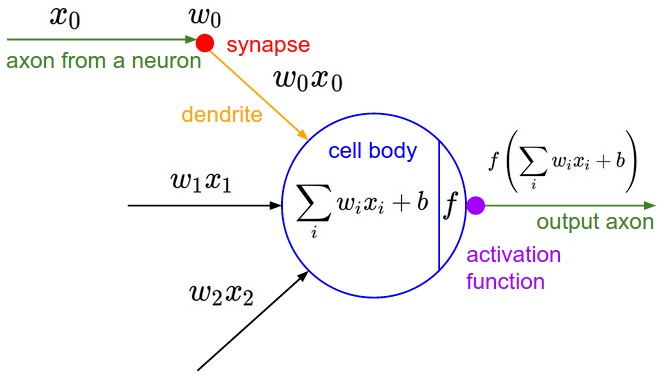
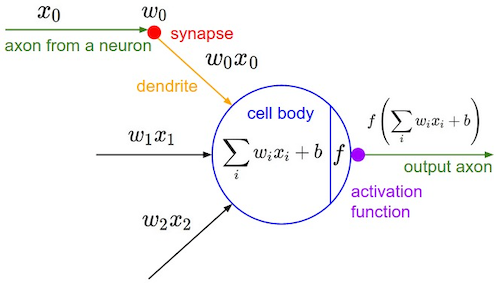
집필용 내부 검토 주석 일괄 제거, ch01 그림 1건 교체
- 원문 대조 과정에서 남겨둔 <!-- 원문 불일치 확인 필요 ... --> 주석을 전 장에서
  제거했다 (11개 파일, 16건). HTML 주석이라 교재 화면에는 보이지 않았지만
  GitHub 에서 md 원본을 여는 학생에게는 그대로 노출되던 집필 메모다.
- <!-- 슬라이드 N --> 마커 293개는 그대로 보존했다.
- ch01/images/s016_02.png 교체

Claude-Session: https://claude.ai/code/session_01NBVYSwV8LhFVXyMW9GHenr

diff --git a/ch07_설명가능성/7.1_기여도분석.md b/ch07_설명가능성/7.1_기여도분석.md
@@ -567,8 +567,6 @@ sg_default = smoothgrad(model, x_sample, sigma=0.2, T=50, seed=SEED)
 
 **분산 변화 비교.** $\sigma \in \{0, 0.05, 0.1, 0.2, 0.3\}$ 으로 노이즈 크기를 바꾸어 Attribution이 어떻게 달라지는지 본다. $\sigma = 0$ 인 경우가 곧 Vanilla Gradient다.
 
-<!-- 원문 불일치 확인 필요: 원문 슬라이드 462 는 σ ∈ {0, 0.05, 0.1, 0.2, 0.3} · T ∈ {1, 5, 10, 30, 100} 으로 적었으나, 노트북 코드와 슬라이드 그림은 σ=0.5 · T=300 까지 포함한다 -->
-
 ```python
 sigmas = [0.0, 0.05, 0.1, 0.2, 0.3, 0.5]
 sg_by_sigma = {s: smoothgrad(model, x_sample, sigma=s, T=100, seed=SEED) for s in sigmas}
@@ -796,7 +794,6 @@ pt_imp = np.abs(pt_shap_arr).mean(axis=0)
 
 > **핵심 메시지**
 > Attribution 도구는 데이터 자체가 아니라 **모델의 학습 결과**를 설명하는 도구다. 도구들 사이의 차이는 충실도, 즉 완전성 공리를 만족하는지 여부에서 온다.
-
 
 > **정리 — Part B**
 > **Integrated Gradients(IG)** 는 경로 적분으로 Vanilla Gradient의 포화 문제를 해결하고, 완전성과 구현 불변성 두 공리를 동시에 만족한다. baseline 선택과 평균화가 IG 결과의 안정성을 크게 좌우하므로 다중 baseline 평균이 표준이다.
@@ -1048,8 +1045,6 @@ Spurious 의존이 실제 모델 배포에서 발견된 대표 사례가 세 건
 **IG로 영역별 기여도 산출.** 픽셀별로 Attribution을 계산한 뒤, 영역별 IG 합을 전체 IG 합으로 나눈 비율을 확인한다.
 
 ![중앙(진짜) 영역과 배경(가짜) 영역의 IG 비율 — 가짜 영역 비율 0.981, 진짜 영역 비율 0.019로 탐지 워크플로우 4단계의 임계 0.3을 크게 초과한다](images/s483_03.png)
-
-<!-- 원문 불일치 확인 필요: 노트북 출력 화면(s484_03)에는 임계 0.3 옆에 'Adebayo' 라는 표기가 찍혀 있으나, 원문 슬라이드 481 은 이 임계를 탐지 워크플로우 4단계의 기준으로만 제시하고 누구에게도 귀속시키지 않는다. Adebayo 2018 은 saliency map 의 sanity check 논문이다 -->
 
 **픽셀별 IG 히트맵.** 시각화해 보면 모델이 이미지의 모든 곳을 보고 있음이 드러난다.
 

diff --git a/ch07_설명가능성/7.2_Attention.md b/ch07_설명가능성/7.2_Attention.md
@@ -282,7 +282,6 @@ $$q_i \cdot k_j = \sum_{m=1}^{d_k} q_{i,m}\, k_{j,m} = \left\| q_i \right\| \lef
 ### 표준 형태의 기호 정리
 
 $$\mathrm{Attention}(Q, K, V) = \mathrm{softmax}\!\left(\frac{QK^\top}{\sqrt{d_k}}\right) V, \qquad Q \in \mathbb{R}^{N \times d_k},\; K \in \mathbb{R}^{N \times d_k},\; V \in \mathbb{R}^{N \times d_v}$$
-<!-- 원문 불일치 확인 필요: 원문은 V 도 $d_k$ 로 표기했으나, 같은 슬라이드가 $d_k$ 를 Key 의 차원으로만 정의하므로 $d_v$ 로 적었다 -->
 <!-- 원문 표기 혼용: 요소 개수를 슬라이드 510 은 $n$, 512·513 은 $N$ 으로 썼다. 절 전체를 $N$ 으로 통일했다 -->
 
 여기서 $N$ 은 요소의 개수다. 각 항의 의미는 다음과 같다.
@@ -398,7 +397,7 @@ Self-Attention의 대가는 계산량이다. 시퀀스 길이 $N$ 에 대해 시
 
 **첫째, sparse attention 계열.** Longformer, BigBird, LongNet이 여기에 속한다. 출발점은 "모든 쌍을 다 볼 필요는 없다"는 가정이다. 참조 길이를 줄여 계산량을 낮춘다. 아래 네 그림은 전체 쌍을 다 보는 full attention 대신 어떤 패턴만 남길 수 있는지를 보여 준다. 대각선 주변만 보는 슬라이딩 윈도, 소수의 위치를 모두와 연결하는 전역 패턴, 무작위로 고른 쌍만 보는 패턴, 그리고 이들을 겹쳐 만든 결합 패턴이 있다.
 
-![대각선 주변만 참조하는 슬라이딩 윈도 형태의 sparse attention 패턴](images/s512_02.png) 
+![대각선 주변만 참조하는 슬라이딩 윈도 형태의 sparse attention 패턴](images/s512_02.png)
 ![특정 위치를 모든 요소와 연결하는 전역(global) sparse attention 패턴](images/s512_03.png)
 ![무작위로 선택된 쌍만 참조하는 random sparse attention 패턴](images/s512_04.png)
 ![슬라이딩 윈도, 전역, 무작위 패턴을 겹쳐 구성한 결합형 sparse attention 패턴](images/s512_05.png)

diff --git a/ch03_표현공간/3.2_분포표현과VAE.md b/ch03_표현공간/3.2_분포표현과VAE.md
@@ -285,8 +285,6 @@ VAE의 손실함수로 들어가기 전에 확률론 용어 몇 개를 정리해
 
 먼저 **가능도 기여도**다. 데이터 $x_i$ 하나가 어떤 분포에 대해 갖는 기여도는, 연속확률밀도함수(PDF)에서는 그 데이터 위치에서 곡선까지 세운 점선의 **높이**이고, 이산 확률질량함수(PMF)라면 그 값의 **확률**이다.
 
-<!-- 원문 수식 확인 필요: 원문의 "P(x_i,θ)=x_i P(θ)" 는 OMML 변환 과정에서 깨진 것으로 보인다. 의미는 "데이터 x_i 가 모수 θ의 분포에서 갖는 밀도값 p(x_i | θ)" 이다. -->
-
 **가능도(likelihood)** 는 $\mathcal{L}(\cdot)$ 또는 $L(\cdot)$ 로 표기하며, 다음과 같이 정의한다.
 
 $$\mathcal{L}(\theta \mid x) = P(x \mid \theta) = \prod_{k=1}^{n} P(x_k \mid \theta)$$
@@ -473,8 +471,6 @@ $$\mathcal{N}(\mu, \sigma) = \frac{1}{\sqrt{2\pi\sigma^2}}\, e^{-\frac{(x-\mu)^2
 $$D_{KL}(p \,\|\, q) = -\int p(x)\log q(x)\, dx + \int p(x)\log p(x)\, dx$$
 
 $$= \frac{1}{2}\log\!\left(2\pi\sigma_2^2\right) + \frac{\sigma_1^2 + (\mu_1 - \mu_2)^2}{2\sigma_2^2} - \frac{1}{2}\left(1 + \log 2\pi\sigma_1^2\right)$$
-
-<!-- 원문 수식 확인 필요: 원문 중간 전개는 "(σ_1^2 + μ_1 − μ_2)^2 / σ_2^2" 로 되어 있으나, 마지막 줄의 결과와 정합하도록 "σ_1^2 + (μ_1 − μ_2)^2" 를 2σ_2^2 로 나눈 형태로 정정하여 옮겼다. -->
 
 $$= \log\!\left(\frac{\sigma_2}{\sigma_1}\right) + \frac{\sigma_1^2 + (\mu_1 - \mu_2)^2}{2\sigma_2^2} - \frac{1}{2}$$
 

diff --git a/ch02_관측공간/2.1_관측공간의한계.md b/ch02_관측공간/2.1_관측공간의한계.md
@@ -175,8 +175,6 @@ $$d_{\min}(d)\approx d_{\max}(d)\approx \mathbb{E}[\text{dist}], \qquad \frac{d_
 
 정규분포에서 sampling한 `dimensions=[2, 10, 50, 100, 500]` 각 1000개의 벡터에서 거리의 평균, 표준편차, 변동계수(CV: Coefficient of Variation)를 확인한다.
 
-<!-- 원문 불일치 확인 필요: 슬라이드는 "정규분포에서 sampling"이라 적었으나, 같은 슬라이드의 이론 전개는 Unif([0,1]^d) 를 쓰고 노트북 코드도 np.random.rand(균일분포)를 쓴다 -->
-
 모든 점 쌍의 유클리드 거리를 구한 뒤 그 평균·표준편차·변동계수를 차원별로 비교한다.
 
 ```python
@@ -393,8 +391,6 @@ $$L_{recon} = \frac{1}{N}\sum_i \lVert x_i - D(E(x_i))\rVert^{2}$$
 - Decoder: 잠재공간 → 관측공간, $\hat{x} = D(z;\varphi)$
 
 재구성 오차가 작다는 것은 압축된 표현이 데이터의 본질적 구조를 잘 포착했음을 의미한다. 하지만 **재구성이 완벽하다고 해서 좋은 표현을 학습했다고 보장할 수는 없다**(→ 심화 과제 2-2).
-
-<!-- 원문 불일치 확인 필요: 슬라이드 50 은 이 지점을 "(심화과제4)"로 가리키지만, 내용이 대응하는 것은 심화 과제 2-2(Latent Space·재구성 오차)다. 2-4 는 Mutual Information 과제로 무관하다 -->
 
 **어떤 정보가 중요한가?**
 

diff --git a/ch07_설명가능성/7.3_Parameter분석.md b/ch07_설명가능성/7.3_Parameter분석.md
@@ -57,11 +57,9 @@ Weight에서 관찰되는 **Low-Rank(저계수) 패턴**은 이 질문에 대한
 
 - **Effective Rank** : 모델이 실제로 사용한 차원 수를 확인한다. 데이터 내재 차원의 흔적이다.
 - **Dead Neuron** : 모델이 버린 용량을 확인한다.
-- **Activation entropy** : 표현의 집중(특화-낮은H)/분산(다양성-높은H)을 확인한다. 
+- **Activation entropy** : 표현의 집중(특화-낮은H)/분산(다양성-높은H)을 확인한다.
 
 - **Lottery Ticket** : 핵심 연결이 어디인지를 확인한다.
-
-<!-- 원문 불일치 확인 필요: 원문의 네 도구 목록에서 "Activation entropy :" 항목만 콜론 뒤가 비어 있어 무엇을 확인하는 도구인지 적혀 있지 않다. 여기서는 정의가 나오는 위치만 가리켰다. -->
 
 ---
 

diff --git a/ch01_DL기반데이터분석소개/1.2_딥러닝개요.md b/ch01_DL기반데이터분석소개/1.2_딥러닝개요.md
@@ -168,8 +168,6 @@ $$\mathbf{Estimation} = [\,3\;\;-1\;\;2\;\;10\,] \;\;(\text{logits})$$
 
 $$\longrightarrow \frac{[\,e^{3}\;\; e^{-1}\;\; e^{2}\;\; e^{10}\,]}{e^{3}+e^{-1}+e^{2}+e^{10}} = [\,0.009\;\;0.0001\;\;0.0009\;\;0.99\,] \quad (\text{예측한 확률 분포})$$
 
-<!-- 원문 불일치 확인 필요: 슬라이드의 결과값 [0.009 0.0001 0.0009 0.99] 는 합이 1이지만 좌변의 지수 계산값과 어긋난다. 실제로 계산하면 약 [0.0009 0.00002 0.0003 0.9989] 이다. 원문 표기를 그대로 두었다. -->
-
 **Cross Entropy**
 
 두 확률 분포 $p$ 와 $q$ 가 있을 때 둘을 식별하는 데 필요한 비트 수(정보이론)이며, 두 확률변수의 **유사도를 측정하는 함수**로 사용할 수 있다.

diff --git a/ch02_관측공간/2.3_선형투영의실패.md b/ch02_관측공간/2.3_선형투영의실패.md
@@ -220,7 +220,6 @@ Manifold의 구조에 기반해 거리를 계산하므로 **Swiss Roll을 가장
 
 - 저차원에서 가중치를 보존한다: $A = W_1 B + W_2 C + W_3 D$ 형태로 각 점을 이웃 $k$ 개(parameter)의 선형 결합으로 표현한다.
 
-  <!-- 원문 불일치 확인 필요: 슬라이드 74 는 $A=W_1B+W_2C+W_3C$ 로 마지막 항의 기호를 C 로 중복해 적었다. 이웃이 셋이므로 D 로 바로잡았다 -->
 - 국소적 특징을 세밀하게 사용하며, 복잡한 구조의 manifold를 펼칠 때 강력하다.
 
 ---

diff --git a/ch02_관측공간/2.2_관측통계의제약.md b/ch02_관측공간/2.2_관측통계의제약.md
@@ -183,8 +183,6 @@ $$\gamma_1=\frac{\mathbb{E}[(X-\mu)^{3}]}{\sigma^{3}}$$
 - $\gamma_1 > 0$: 오른쪽 꼬리 (수입 분포, 수명 데이터)
 - $\gamma_1 < 0$: 왼쪽 꼬리
 
-<!-- 원문 불일치 확인 필요: 슬라이드 61 은 오른쪽 꼬리·왼쪽 꼬리를 모두 "γ₁ < 0" 으로 적었다. 오른쪽 꼬리는 γ₁ > 0 이 맞으므로 부등호를 바로잡았다 -->
-
 첨도 (Kurtosis, 4차 모멘트, 초과 첨도)
 
 $$\gamma_2=\frac{\mathbb{E}[(X-\mu)^{4}]}{\sigma^{4}}-3$$

diff --git a/ch06_Feature공간/6.2_피처불안정성.md b/ch06_Feature공간/6.2_피처불안정성.md
@@ -422,7 +422,6 @@ $$\left[\,Q_{2.5}\!\left(PI_j^{(b)}\right),\; Q_{97.5}\!\left(PI_j^{(b)}\right)\
 - 데이터가 부족하다면 Bootstrap을 중심에 둔다.
 
 이 절 뒤쪽 실습에서는 Deep Ensemble을 Bootstrap PI 안에서 적용한 경우($B = 50 \times M = 10$)를 정량적으로 검증한다.
-<!-- 원문 불일치 확인 필요 -->
 
 ---
 
